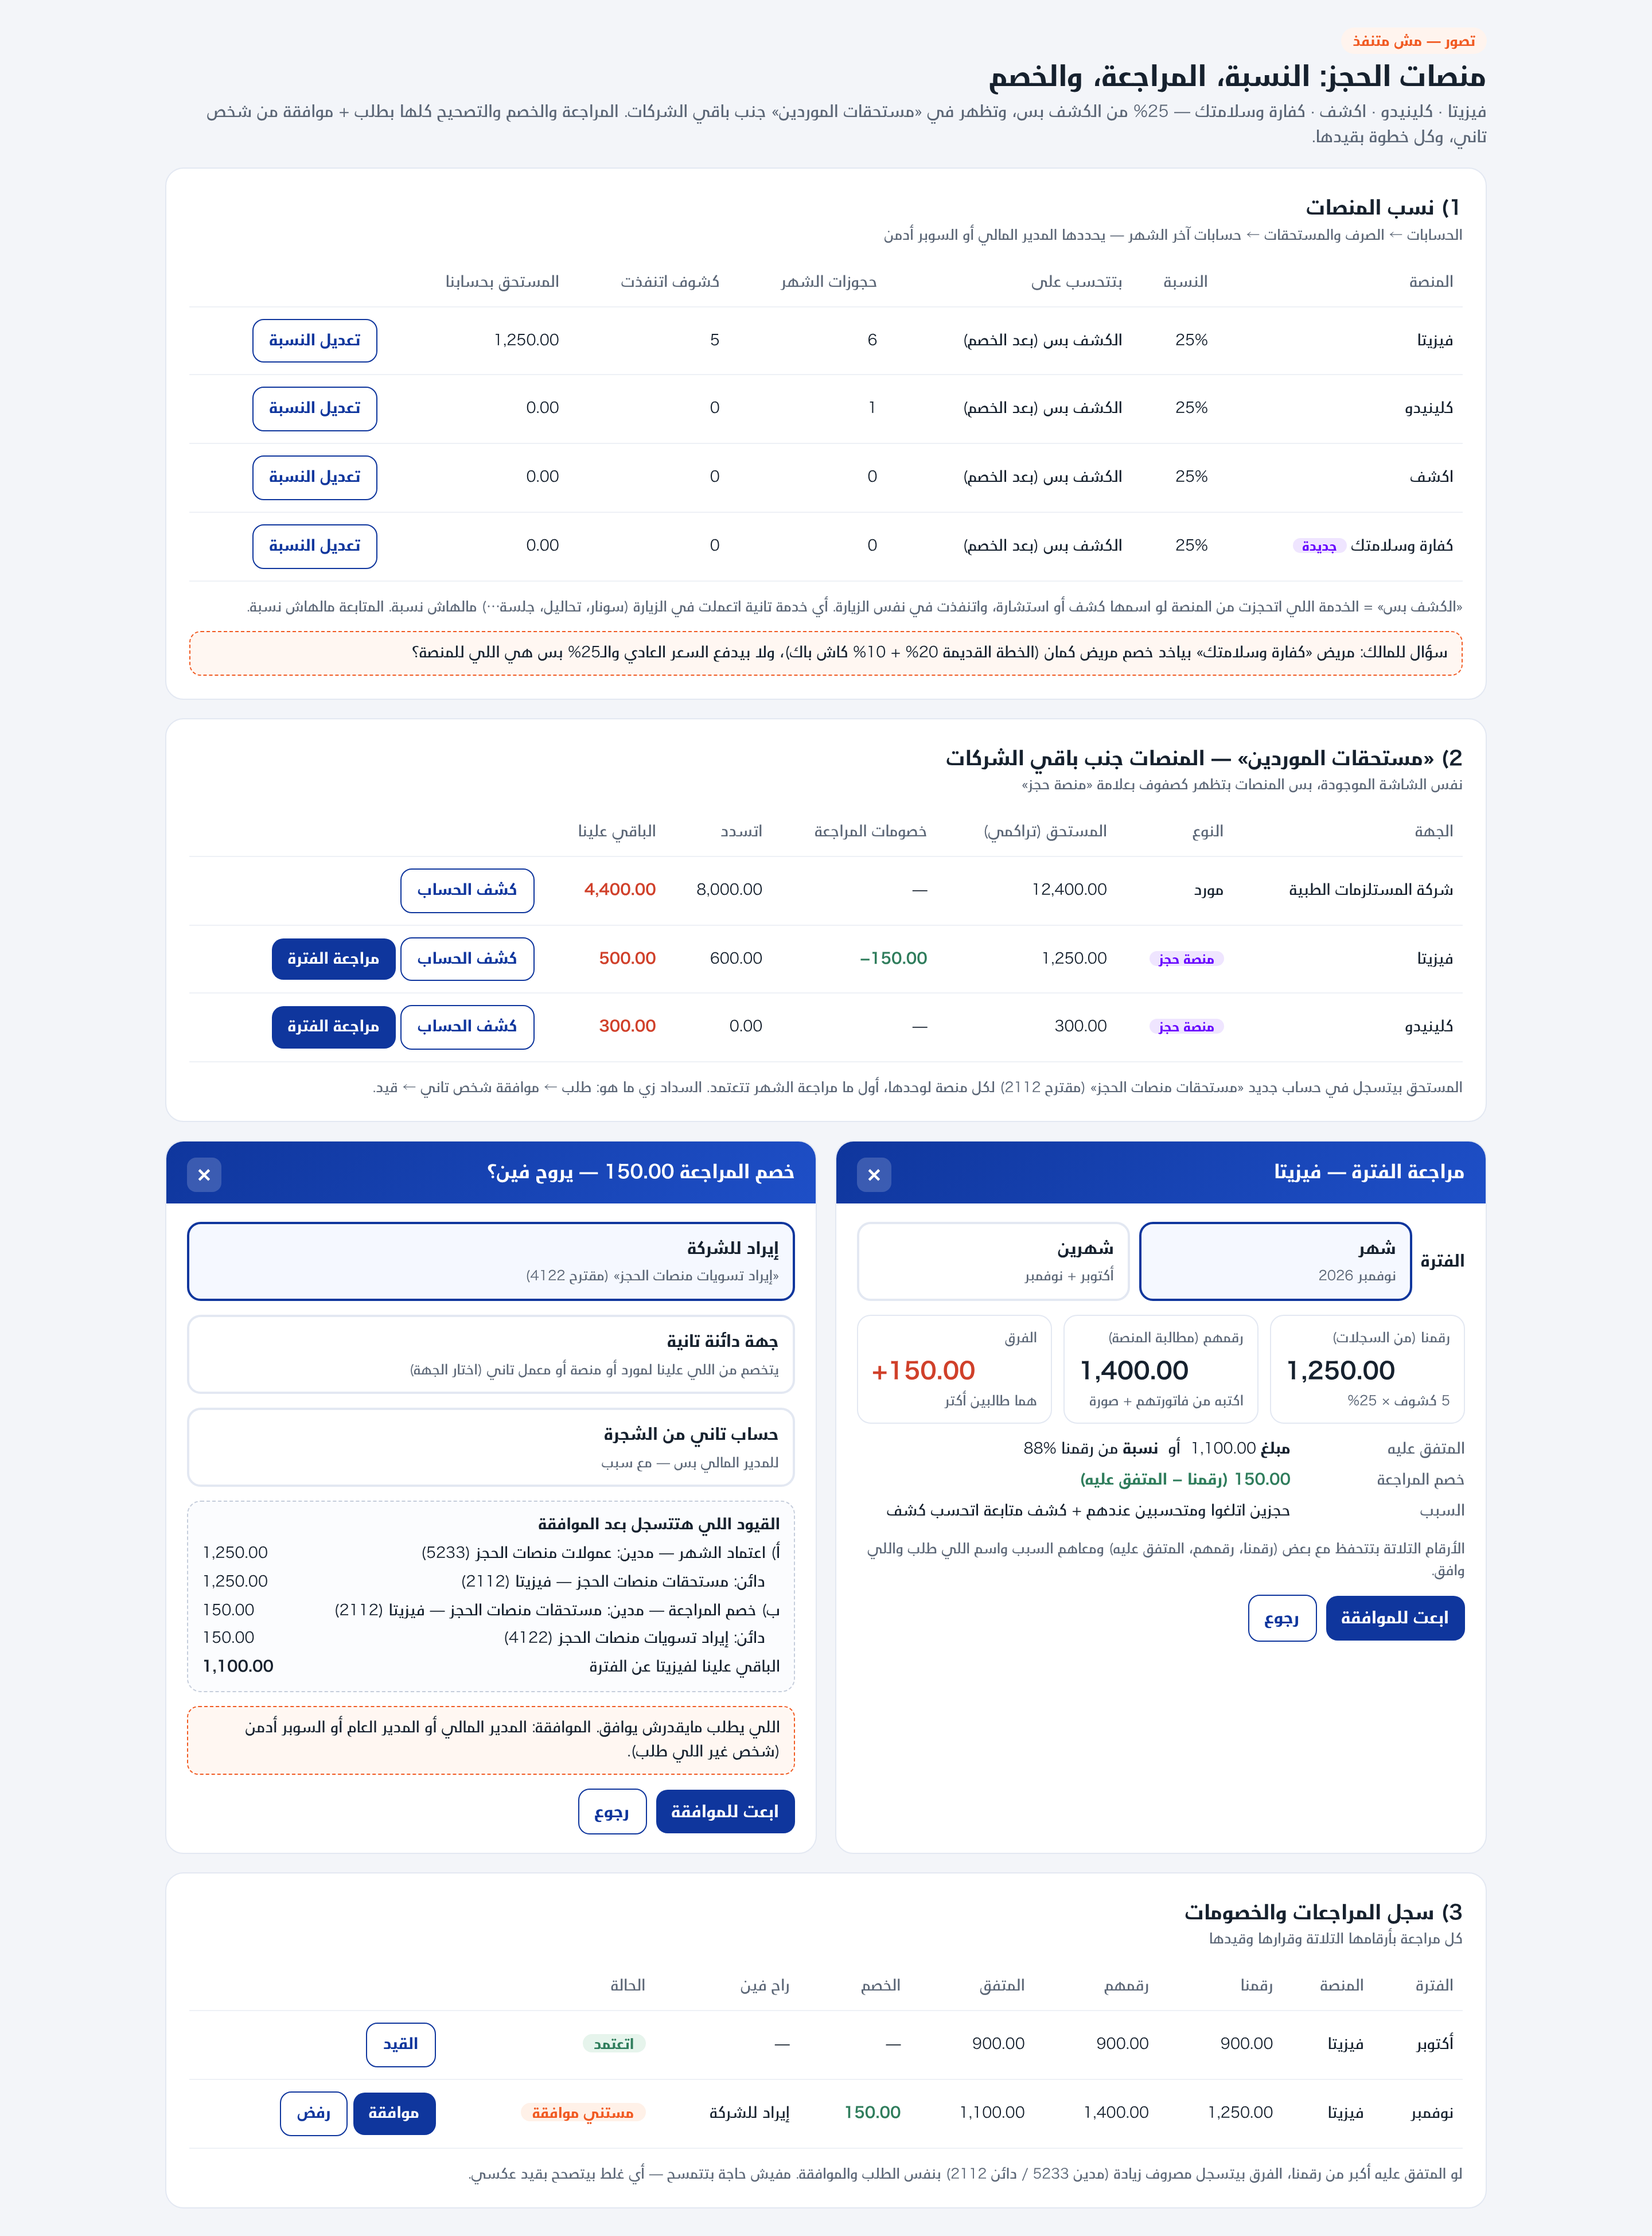
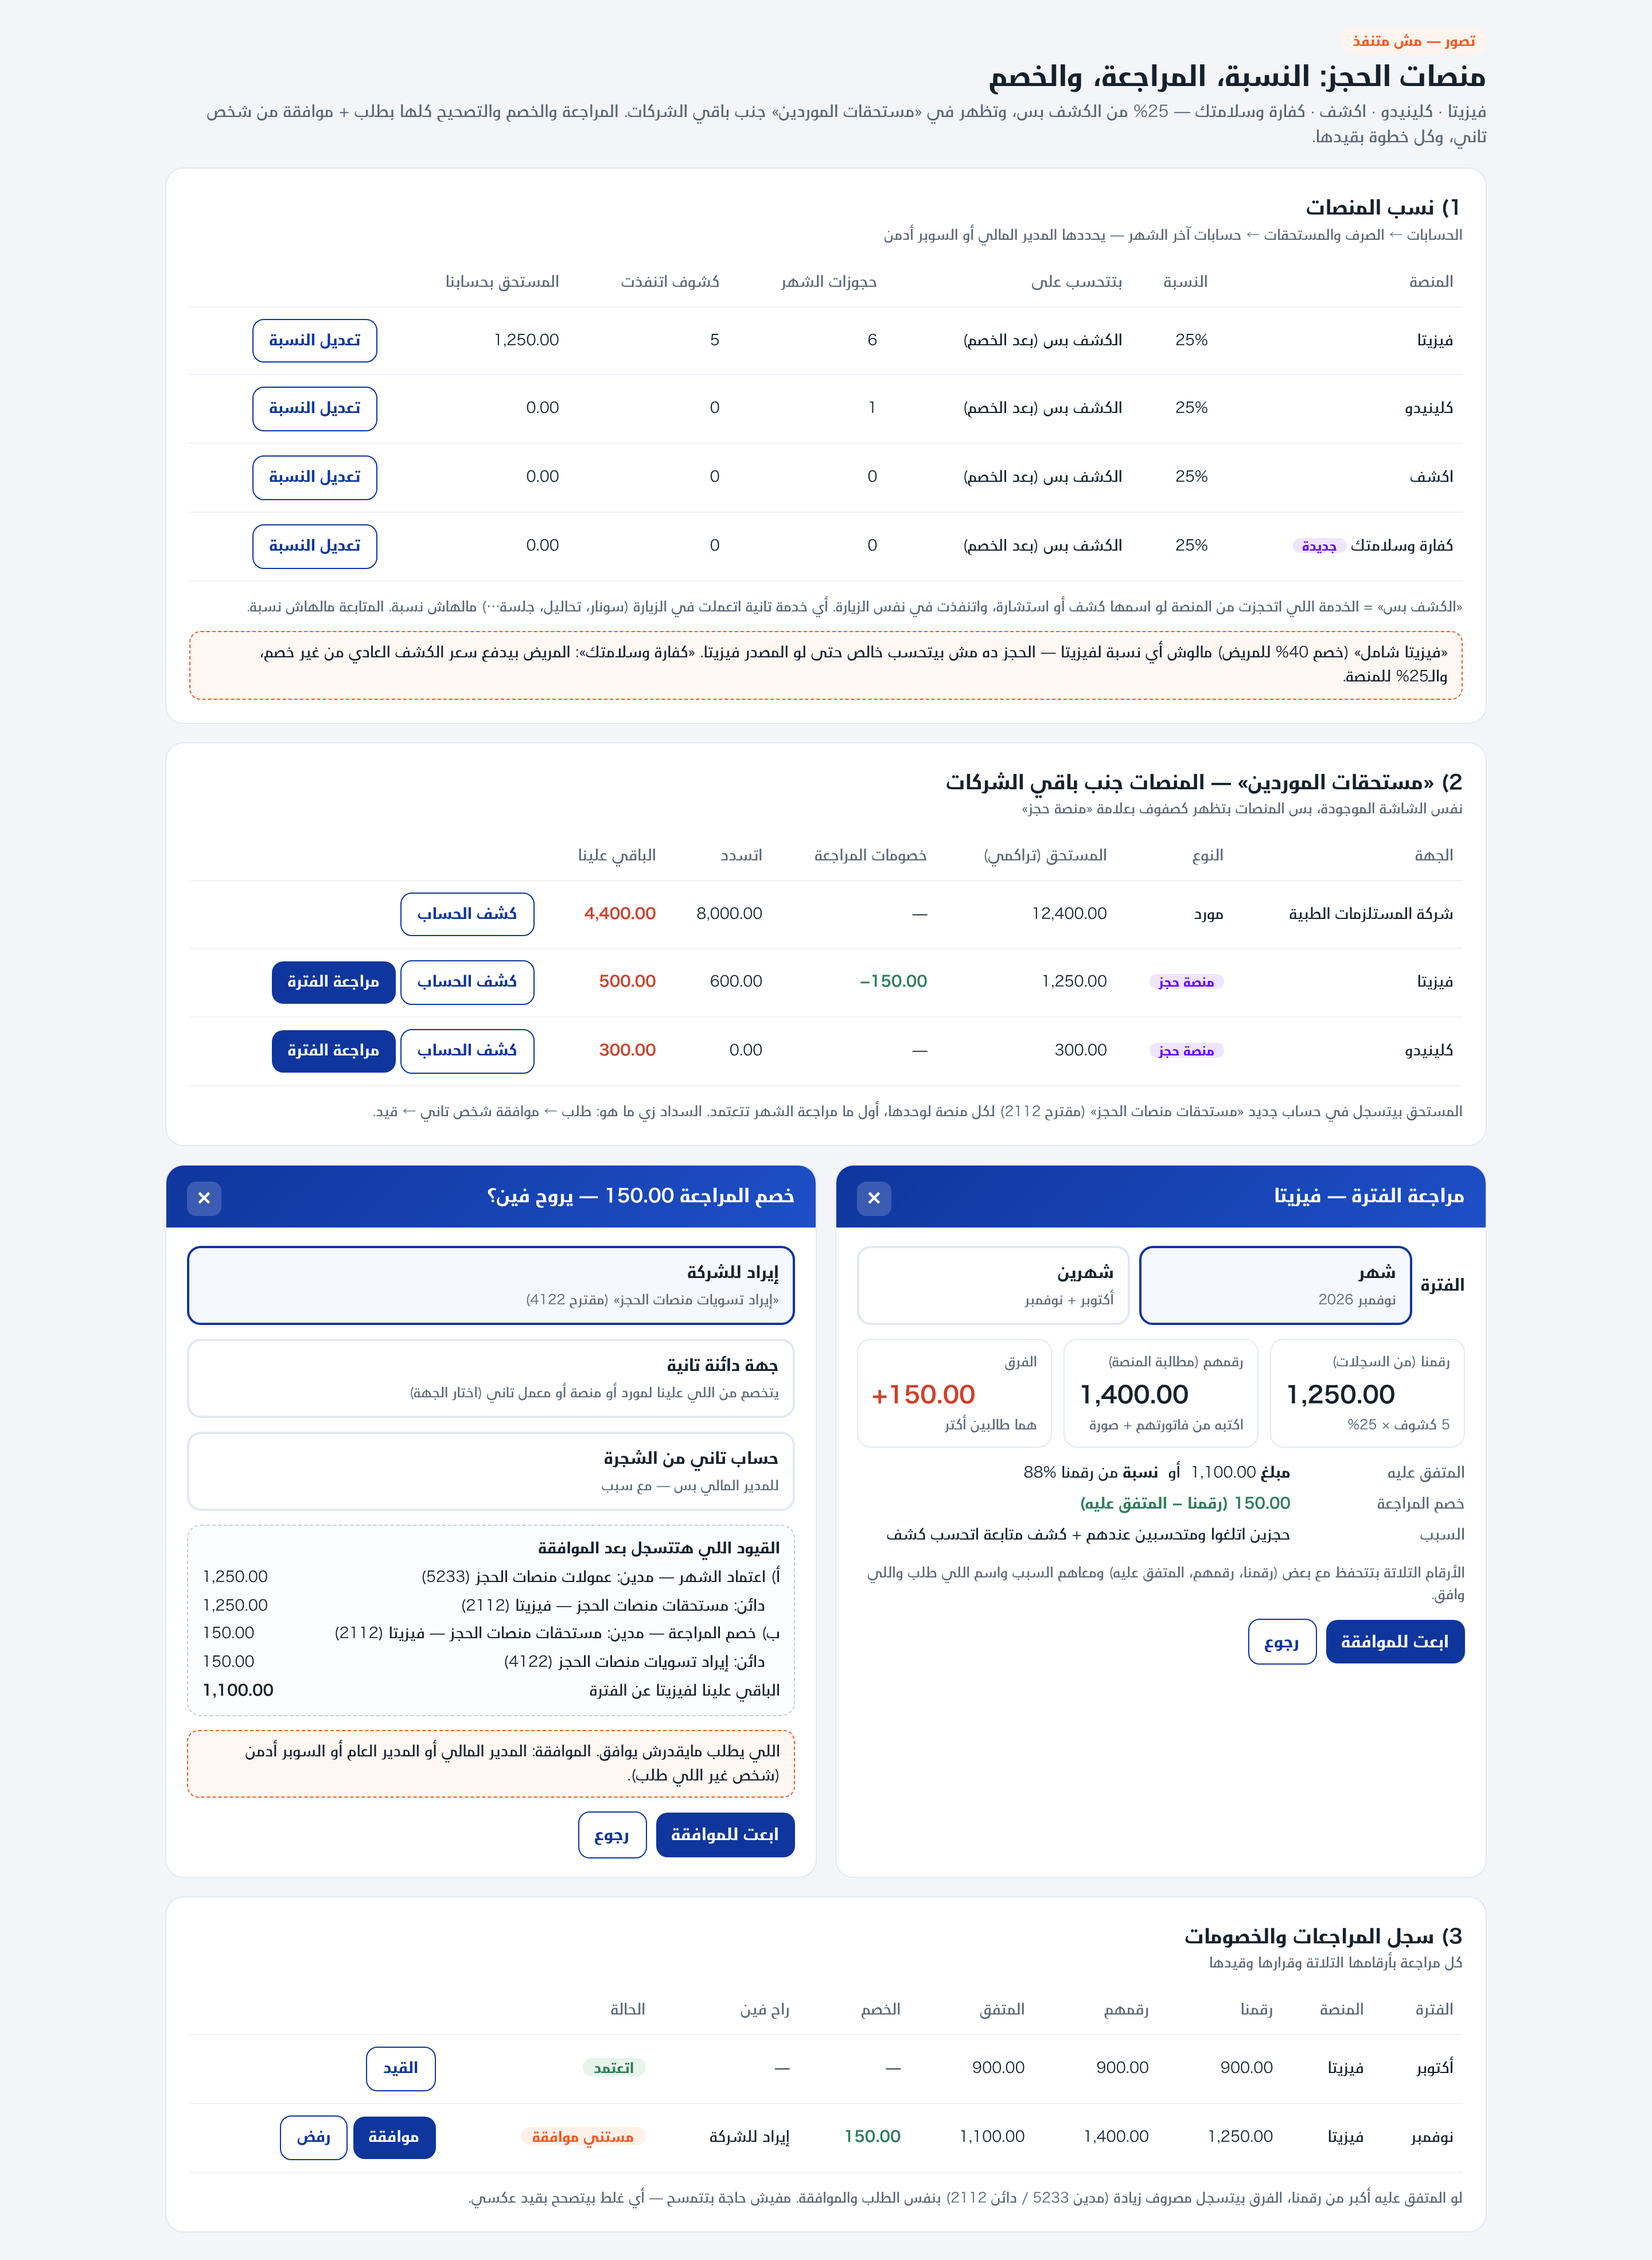
Mockup: «فيزيتا شامل» excluded; كفارة وسلامتك normal price, 25% to the platform
Claude-Session: https://claude.ai/code/session_01UqVZHa8rtphDgrTCHvkxpz

diff --git a/docs/ui-references/mockups/platform-audit.html b/docs/ui-references/mockups/platform-audit.html
@@ -45,7 +45,7 @@ table{width:100%;border-collapse:collapse;font-size:13px}th,td{text-align:right;
   <tr><td>كفارة وسلامتك <span class="badge">جديدة</span></td><td dir="ltr">25%</td><td>الكشف بس (بعد الخصم)</td><td>0</td><td>0</td><td><bdi dir="ltr">0.00</bdi></td><td><button class="btn ghost">تعديل النسبة</button></td></tr>
  </tbody></table>
  <p class="note">«الكشف بس» = الخدمة اللي اتحجزت من المنصة لو اسمها كشف أو استشارة، واتنفذت في نفس الزيارة. أي خدمة تانية اتعملت في الزيارة (سونار، تحاليل، جلسة…) مالهاش نسبة. المتابعة مالهاش نسبة.</p>
- <div class="warn">سؤال للمالك: مريض «كفارة وسلامتك» بياخد خصم مريض كمان (الخطة القديمة 20% + 10% كاش باك)، ولا بيدفع السعر العادي والـ25% بس هي اللي للمنصة؟</div>
+ <div class="warn">«فيزيتا شامل» (خصم 40% للمريض) مالوش أي نسبة لفيزيتا — الحجز ده مش بيتحسب خالص حتى لو المصدر فيزيتا. «كفارة وسلامتك»: المريض بيدفع سعر الكشف العادي من غير خصم، والـ25% للمنصة.</div>
 </section>
 
 <section class="card">
